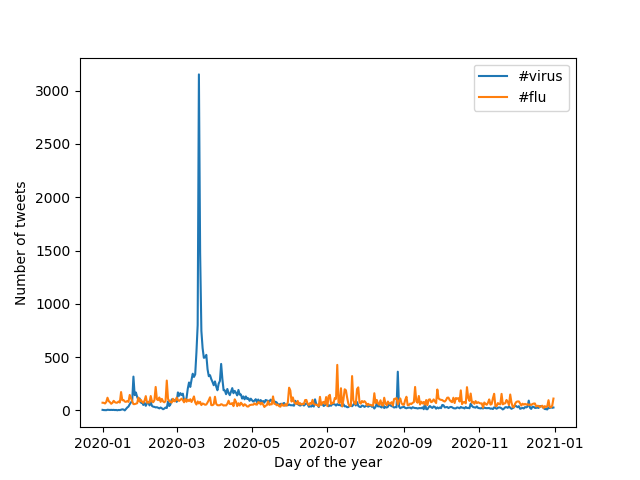
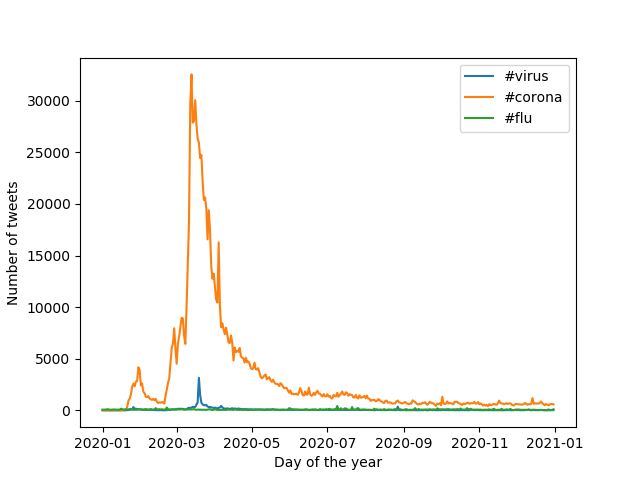
last commit

diff --git a/README.md b/README.md
@@ -2,7 +2,7 @@
 
 The MapReduce project aimed to process a zip file containing tweets for a single day and track the usage of hashtags on both a language and country level. The project began by creating a mapping function to process the zip file, followed by reducing the resulting files with ".lang" and ".country" extensions into separate files.
 
-Using the reduced files, the project generated a bar chart displaying the top 10 countries and languages that used the hashtags "#coronavirus" and "#코로나바이러스". The code for this can be found in the visualize.py file. Additionally, the alternative_reduce.py file plotted a line graph for individual hashtags. The code can plot any number of hashtags as required. In the line graphs below, I demonstrated the code's flexibility by plotting both two and three hashtags.
+Using the reduced files, the project generated a bar chart displaying the top 10 countries and languages that used the hashtags "#coronavirus" and "#코로나바이러스". The code for this can be found in the visualize.py file. Additionally, the alternative_reduce.py file plotted a line graph for individual hashtags. With the code's flexibility, it can plot any number of hashtags. I demostrated this below, by plotting three hastags.
 
 This project has provided me with an invaluable lesson on handling and visualizing large datasets. As we look to the future, this project holds potential applications in tracking the usage of specific words or phrases across various social media platforms. Below are the bar charts and line plot for your reference.
 
@@ -18,9 +18,5 @@ This project has provided me with an invaluable lesson on handling and visualizi
 # Graph of Top 10 Langauges that used #코로나바이러스
 ![alt text](https://github.com/oliviastevens11/twitter_coronavirus/blob/master/Chart%20of%20Top%2010%20Languages:%20%23%EC%BD%94%EB%A1%9C%EB%82%98%EB%B0%94%EC%9D%B4%EB%9F%AC%EC%8A%A4.png)
 
-# Line Plot of the Use of Two Hashtags throughout 2020: "#virus" and "#flu"
+# Line Plot of the Use of Three Hashtags throughout 2020: "#virus", "corona", and "#flu"
 ![alt_text](https://github.com/oliviastevens11/twitter_coronavirus/blob/master/line_plot_hastag.png)
-
-# Line Plot of the Use of Three Hashtags throughout 2020: "#virus", "#flu", and "#corona"
-![alt_text](https://github.com/oliviastevens11/twitter_coronavirus/blob/master/line_plot_hastag2.png)
-
